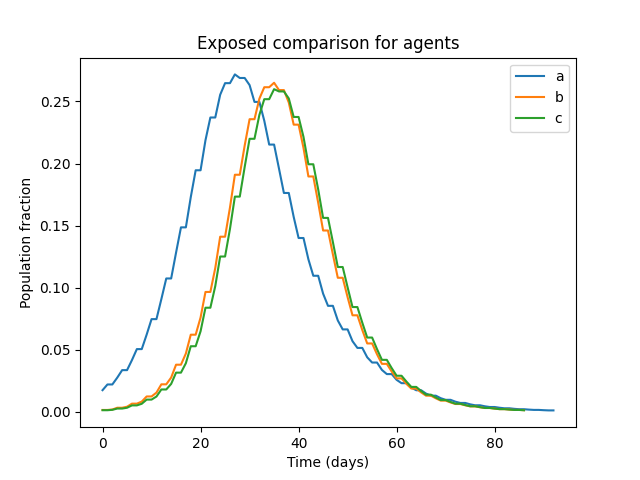
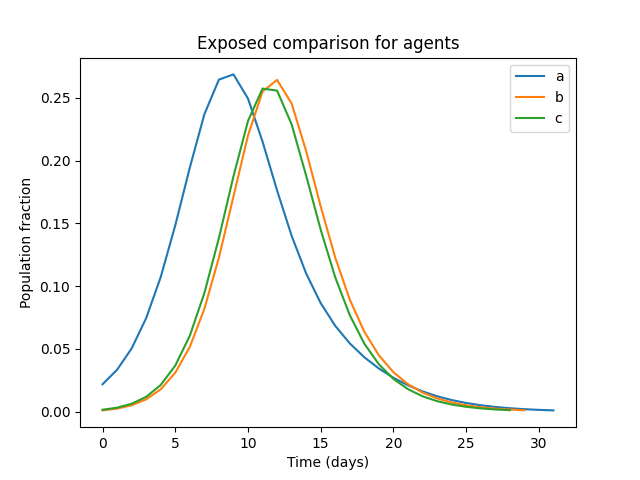
len history consistent

diff --git a/agent.py b/agent.py
@@ -29,6 +29,16 @@ class Agent:
 
 		return self
 
+	def replace_state(self, state):
+
+		#print(self.name, state)
+
+		self.state=state
+
+		self.__history[-1]=state.to_array
+
+		return self
+
 	@property
 	def history(self):
 
@@ -53,11 +63,11 @@ class Agent:
 
 	def interact(self, conn_agents, value):
 
-		print(f"----NEW INTERACTION SELF=={self.name}-------")
+		#print(f"----NEW INTERACTION SELF=={self.name}-------")
 
 
-		print(f"----BEFORE MIGRATION-------")
-		print(self.history)
+		#print(f"----BEFORE MIGRATION-------")
+		#print(self.history)
 
 		migration= int(self.state.N * value)
 
@@ -74,14 +84,14 @@ class Agent:
 
 			agent.state = new_state_agent
 
-		self.set_state(self.state.next_state(agent.parameters))
+		self.replace_state(self.state.next_state(agent.parameters))
 
-		print(f"----after MIGRATION-------")
-		print(self.history)
+		#print(f"----after MIGRATION-------")
+		#print(self.history)
 
 		for agent in conn_agents:
 
-			agent.set_state(agent.state.next_state(agent.parameters))
+			agent.replace_state(agent.state.next_state(agent.parameters))
 
 		return self,conn_agents
 

diff --git a/main.py b/main.py
@@ -53,13 +53,13 @@ print(agents['a'].history[:5])
 print(agents['b'].history[:5])
 print(agents['c'].history[:5])
 
-#print(len(agents['a'].history))
-#print(len(agents['b'].history))
-#print(len(agents['c'].history))
+print(len(agents['a'].history))
+print(len(agents['b'].history))
+print(len(agents['c'].history))
 
 
-#plot_compartment_comparison(agents, 1, "Exposed")
-#plot_compartment_comparison(agents, 2, "Infected")
+plot_compartment_comparison(agents, 1, "Exposed")
+plot_compartment_comparison(agents, 2, "Infected")
 
 
 
